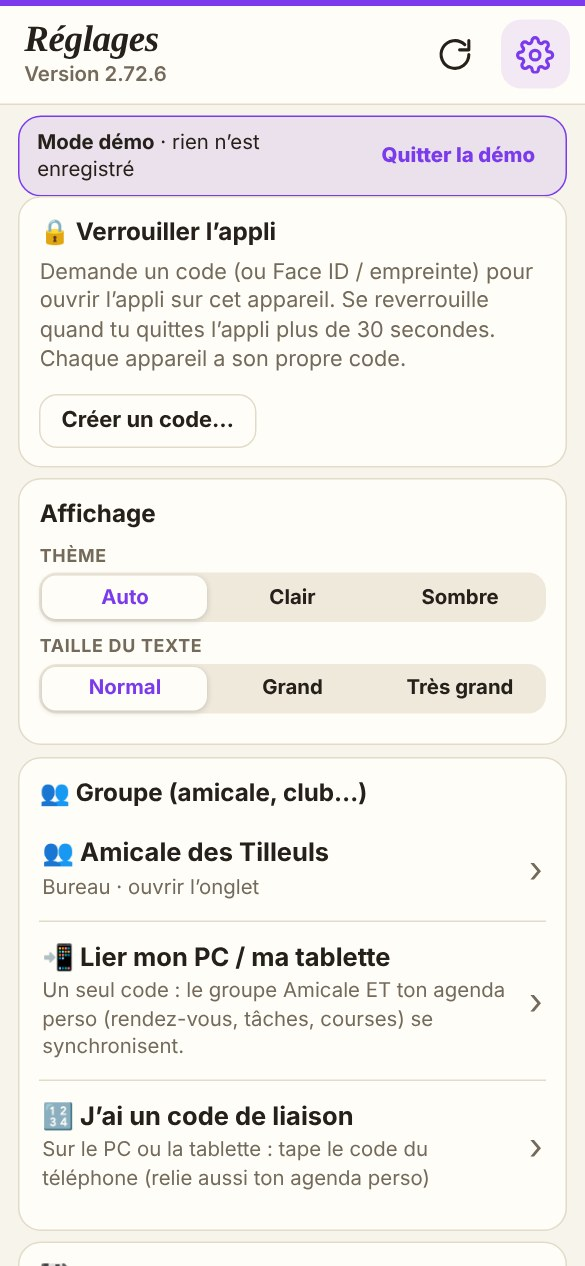
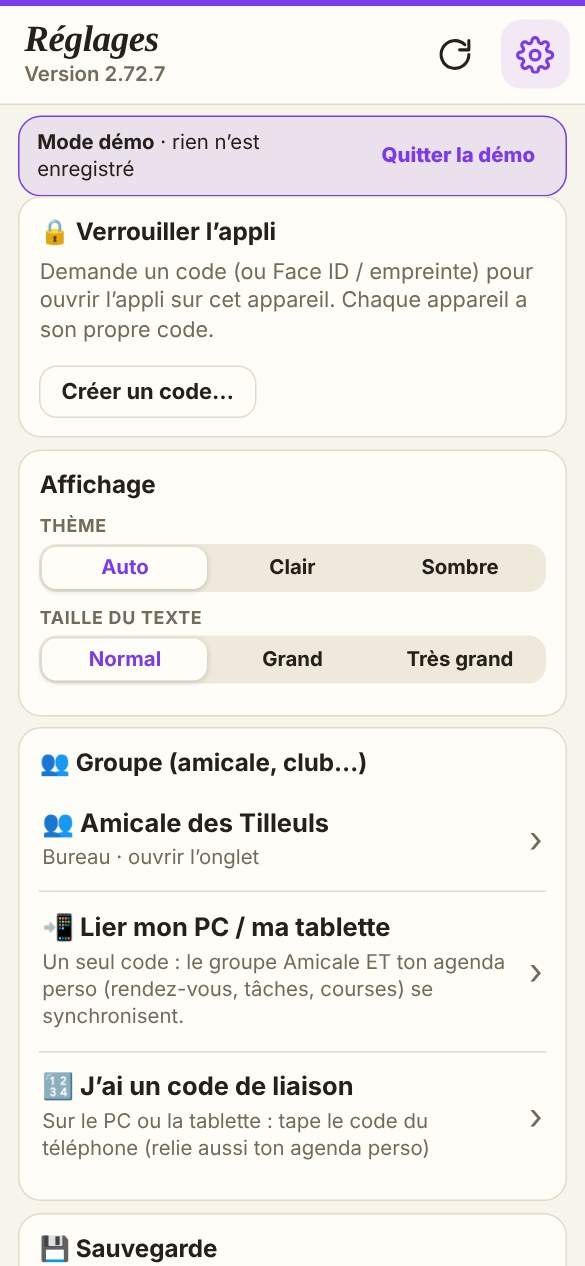
v2.72.7 : délai du verrou au choix, verrou de l'onglet Amicale seul, onglets de droite sans défilement bloqué, aide enregistrement Fichiers
Claude-Session: https://claude.ai/code/session_019mqjrjxHAMpMjD6Up7Rrk6

diff --git a/index.html b/index.html
@@ -319,6 +319,7 @@ body[data-ls="ardoise"] #main .co-tab.on,.lsth[data-ls="ardoise"] .co-tab.on{bac
  body.am-printing #amprint .pst{margin:0 auto;transform-origin:top left}
 }
 
+.co-tabs.am-sn.am-snl{position:relative;top:auto;overflow:visible;max-height:none;min-height:0}
 .co-tabs.am-sn{position:sticky;overflow-y:auto;overscroll-behavior:auto;scrollbar-width:none;-webkit-overflow-scrolling:touch;gap:.1rem;max-height:calc(100vh - 11.5rem);max-height:calc(100dvh - 11.5rem);min-height:14rem}.co-tabs.am-sn .co-tab{min-height:0;max-height:none;overflow:visible;padding:.2rem .1rem;font-size:.7rem;text-overflow:clip;flex:none}.co-tabs.am-sn .co-tn{overflow:visible;text-overflow:clip;white-space:nowrap}.co-tabs.am-sn .co-tc{font-size:.58rem;padding:0 .2rem;min-width:.9rem;line-height:1.3}
 .co-tab{max-height:14rem}
 .am-h{margin:.9rem 0 .3rem;font-size:.75rem;letter-spacing:.1em;text-transform:uppercase;color:var(--muted)}
@@ -1415,7 +1416,7 @@ html.ami #main{padding-bottom:env(safe-area-inset-bottom)}
 (function(){
 'use strict';
 /* ========= Agenda · données, dates, récurrences, .ics, sauvegarde ========= */
-const APP_VERSION='2.72.6';
+const APP_VERSION='2.72.7';
 /* Appli « Amicale » : même code, publiée aussi sur dam-cigogne.github.io/amicale/ (seul l'onglet du groupe). Mémoire séparée : préfixe agd-am- */
 const AMI=/\/amicale(\/|$)/.test(location.pathname)||/[?&]amicale=1/.test(location.search);
 const P=AMI?'agd-am-':'agd-';
@@ -1423,9 +1424,15 @@ const K={data:P+'data',set:P+'settings',meta:P+'meta',fired:P+'fired',ms:P+'ms'}
 const BACKUP_FILE=AMI?'amicale-sauvegarde.json':'agenda-sauvegarde.json';
 const ICS_FILE='agenda.ics';
 const CHANGELOG=[
+ {v:'2.72.7',d:'08/11/2026',items:[
+  '<b>Enregistrer un fichier sur iPhone</b> : un message t’indique quoi toucher (« Enregistrer dans Fichiers ») dans la fenêtre de partage. iOS ne permet pas à une appli d’écrire directement dans Fichiers.',
+  '<b>Délai du verrou au choix</b> : l’appli se reverrouille tout de suite, après 30 secondes, 1, 5, 15 minutes ou 1 heure hors de l’appli (5 minutes par défaut).',
+  '<b>Onglets de droite qui se bloquaient</b> : quand il y a plus d’onglets que la hauteur de l’écran, la colonne ne défile plus toute seule (c’est là que ça bloquait) : elle suit le défilement de la page.',
+  '<b>Verrou au choix dans AgenDam</b> : verrouiller toute l’appli ou seulement l’onglet Amicale.',
+ ]},
  {v:'2.72.6',d:'08/11/2026',items:[
   '<b>2e administrateur</b> : fiche d’un membre du bureau › « 👑 Nommer administrateur ». Elle ou il peut alors gérer le groupe sans toi (titres, niveaux d’accès, retraits, invitations, modèle de bulletin). Ça ne peut pas se défaire.',
-  '<b>Verrou de l’appli</b> : code (et Face ID / empreinte) demandé à l’ouverture de toute l’appli, sur l’appareil de ton choix (Réglages › Verrouiller l’appli). Se reverrouille quand tu quittes l’appli plus de 30 secondes.',
+  '<b>Verrou de l’appli</b> : code (et Face ID / empreinte) demandé à l’ouverture de toute l’appli, sur l’appareil de ton choix (Réglages › Verrouiller l’appli). Dans AgenDam, tu peux ne verrouiller que l’onglet Amicale. Se reverrouille quand tu quittes l’appli plus de 30 secondes.',
   '<b>Titres au féminin</b> : Présidente, Vice-présidente et Trésorière sont proposées en plus (Secrétaire est identique).',
   '<b>Notifications des courses</b> : elles indiquent le nom de la liste (« a modifié la liste « Buvette » »). Demande la dernière version du serveur (worker).'
  ]},
@@ -2999,6 +3006,7 @@ function bannerHTML(){
 
 /* ---------- Rendu principal ---------- */
 function render(){
+ setTimeout(amSnFit,80);
  FEV_C=null;
  OCC.length=0;VAC_IDX=null;
  const main=$('#main'),body=$('#body');
@@ -7180,6 +7188,8 @@ async function act(a,el,e){
   case 'aml-open':await amlGate();break;
   case 'aml-pin':await amlSetPin();render();break;
   case 'aml-lock':amlRelock();break;
+  case 'aml-delay':S.amlDelay=+ds_.v;saveSet();render();break;
+  case 'aml-scope':{S.amlScope=ds_.v==='am'?'am':'all';saveSet();amlCover(0);AML_OK=true;render();toast(S.amlScope==='am'?'Seul l’onglet Amicale sera verrouillé':'Toute l’appli sera verrouillée',3500);break}
   case 'aml-bio':{
    if(S.amlBio){S.amlBio='';saveSet();toast('Face ID / empreinte retiré : le code reste actif')}
    else if(!(await bdBioAvail())){await ask({title:'Pas disponible ici',text:'Cet appareil ou ce navigateur ne propose pas Face ID / empreinte pour les sites. Le code reste utilisable.',btns:[{label:'OK',value:1,cls:'pri'}]})}
@@ -10607,14 +10617,21 @@ async function amForm(title,intro,fields,ok){
 }
 let AM_QUIET=0;
 /* Verrou de toute l'appli (sur cet appareil seulement) : code + Face ID / empreinte, comme les anniversaires */
+/* Colonne d'onglets de droite : si elle est plus haute que l'écran, elle n'a plus de défilement à elle (ça se bloquait sur iPhone/iPad) : elle suit simplement le défilement de la page */
+function amSnFit(){const n=document.querySelector('.co-tabs.am-sn');if(!n)return;n.classList.remove('am-snl');if(n.scrollHeight>n.clientHeight+3)n.classList.add('am-snl')}
+window.addEventListener('resize',()=>setTimeout(amSnFit,200));window.addEventListener('orientationchange',()=>setTimeout(amSnFit,400));
 let AML_OK=false,AML_H=0;
+const amlDelay=()=>S.amlDelay==null?300:+S.amlDelay;
+const amlScopeAm=()=>!AMI&&S.amlScope==='am'&&!!(S.amc&&S.amc.on);
+const amTabLocked=()=>!!S.amlPin&&amlScopeAm()&&!AML_OK;
+function amLockHTML(){return '<div class="card" style="margin:.8rem 0;text-align:center;padding:1.4rem"><div style="font-size:2.4rem">🔒</div><b>Amicale verrouillée</b><p class="mut" style="margin:.3rem 0 .8rem">Entre ton code ou Face ID / empreinte pour voir l’Amicale.</p><button class="btn pri" data-act="aml-open">🔓 Déverrouiller</button></div>'}
 function amlCover(on){let e=document.getElementById('applock');if(!on){if(e)e.remove();return}
  if(e)return;e=document.createElement('div');e.id='applock';e.style.cssText='position:fixed;inset:0;z-index:70;background:var(--bg,#fff);color:var(--text,#111);display:flex;flex-direction:column;align-items:center;justify-content:center;gap:.8rem;text-align:center;padding:2rem';
  e.innerHTML='<div style="font-size:3rem">🔒</div><b style="font-size:1.3rem">Appli verrouillée</b><p class="mut" style="margin:0 0 .4rem;max-width:20rem">Touche le bouton pour entrer avec ton code ou Face ID / empreinte.</p><button class="btn pri" id="applock-b" style="min-width:12rem">🔓 Déverrouiller</button>';
  document.body.appendChild(e);document.getElementById('applock-b').onclick=()=>{amlGate().then(ok=>{if(ok)amlCover(0)})}}
-function amlRelock(){AML_OK=false;if(S.amlPin)amlCover(1)}
-function amlUnlock(){AML_OK=true;amlCover(0)}
-document.addEventListener('visibilitychange',()=>{if(!S.amlPin)return;if(document.hidden){AML_H=Date.now()}else if(AML_H&&Date.now()-AML_H>30000){amlRelock();amlGate().then(ok=>{if(ok)amlCover(0)})}});
+function amlRelock(){AML_OK=false;if(!S.amlPin)return;if(amlScopeAm()){if(V.view==='amicale')render()}else amlCover(1)}
+function amlUnlock(){AML_OK=true;amlCover(0);if(V.view==='amicale')render()}
+document.addEventListener('visibilitychange',()=>{if(!S.amlPin)return;if(document.hidden){AML_H=Date.now()}else if(AML_H&&Date.now()-AML_H>amlDelay()*1000){amlRelock();if(!amlScopeAm())amlGate().then(ok=>{if(ok)amlCover(0)})}});
 async function amlGate(){
  if(!S.amlPin||AML_OK)return true;let msg='';
  if(S.amlBio&&await bdBioCheck('amlBio')){amlUnlock();render();return true}
@@ -10642,7 +10659,7 @@ async function amlSetPin(){
  const salt=uid();S.amlPin=salt+':'+await bdHash(a,salt);amlRelock();saveSet();render();toast('🔒 Verrou enregistré')
 }
 function appLockCard(){
- return '<div class="card"><h3>🔒 Verrouiller l’appli</h3><p class="mut" style="font-size:.85rem;margin:.2rem 0 .5rem">Demande un code (ou Face ID / empreinte) pour ouvrir l’appli sur cet appareil. Se reverrouille quand tu quittes l’appli plus de 30 secondes. Chaque appareil a son propre code.</p><button class="btn blk" data-act="aml-pin">'+(S.amlPin?'Verrou activé : changer ou retirer':'Créer un code…')+'</button>'+(S.amlPin?'<button class="btn blk" data-act="aml-bio">'+(S.amlBio?'✅ Face ID / empreinte activé : retirer':'👤 Déverrouiller avec Face ID / empreinte…')+'</button><button class="btn blk" data-act="aml-lock">Verrouiller maintenant</button>':'')+'</div>'
+ return '<div class="card"><h3>🔒 Verrouiller l’appli</h3><p class="mut" style="font-size:.85rem;margin:.2rem 0 .5rem">Demande un code (ou Face ID / empreinte) pour ouvrir l’appli sur cet appareil. Chaque appareil a son propre code.</p><button class="btn blk" data-act="aml-pin">'+(S.amlPin?'Verrou activé : changer ou retirer':'Créer un code…')+'</button>'+(S.amlPin?'<b style="display:block;margin:.6rem 0 .2rem">Se reverrouille après…</b><div class="seg" style="flex-wrap:wrap">'+[[0,'Tout de suite'],[30,'30 s'],[60,'1 min'],[300,'5 min'],[900,'15 min'],[3600,'1 h']].map(o=>'<button data-act="aml-delay" data-v="'+o[0]+'" class="'+(amlDelay()===o[0]?'on':'')+'">'+o[1]+'</button>').join('')+'</div><p class="mut" style="font-size:.8rem;margin:.2rem 0 0">Temps passé hors de l’appli avant qu’elle redemande le code.</p>':'')+(S.amlPin&&!AMI&&S.amc&&S.amc.on?'<b style="display:block;margin:.6rem 0 .2rem">Que verrouiller ?</b><div class="seg"><button data-act="aml-scope" data-v="all" class="'+(S.amlScope!=='am'?'on':'')+'">Toute l’appli</button><button data-act="aml-scope" data-v="am" class="'+(S.amlScope==='am'?'on':'')+'">Seulement l’onglet Amicale</button></div>':'')+(S.amlPin?'<button class="btn blk" data-act="aml-bio">'+(S.amlBio?'✅ Face ID / empreinte activé : retirer':'👤 Déverrouiller avec Face ID / empreinte…')+'</button><button class="btn blk" data-act="aml-lock">Verrouiller maintenant</button>':'')+'</div>'
 }
 async function amPut(zone,doc,P,kraw,hint,det){
  const a=amc(),FK=await famKeys({k:kraw||(zone==='b'?a.kB:a.kA)}),b=await famEncK(P,FK.key);b.by=String(a.me.n||'').slice(0,30);
@@ -11650,7 +11667,7 @@ async function amSaveBlob(blob,name,mime){
   try{const ext=(name.match(/\.[a-z0-9]+$/i)||['.bin'])[0],h=await window.showSaveFilePicker({suggestedName:name,types:[{description:'Fichier '+ext,accept:{[f.type||'application/octet-stream']:[ext]}}]});const w=await h.createWritable();await w.write(f);await w.close();toast('Enregistré : '+h.name,3500);return}
   catch(e){if(e&&e.name==='AbortError')return}
  }
- if(navigator.canShare&&navigator.canShare({files:[f]})){try{await navigator.share({files:[f],title:name});return}catch(e){if(e&&e.name==='AbortError')return}}
+ if(navigator.canShare&&navigator.canShare({files:[f]})){if(isIOS())toast('Dans la fenêtre qui s’ouvre : touche « Enregistrer dans Fichiers » (descends dans la liste si besoin)',6000);try{await navigator.share({files:[f],title:name});return}catch(e){if(e&&e.name==='AbortError')return}}
  const u=URL.createObjectURL(f),l=document.createElement('a');l.href=u;l.download=name;document.body.appendChild(l);l.click();setTimeout(()=>{l.remove();URL.revokeObjectURL(u)},4000);toast('Fichier téléchargé : « '+name+' » (dossier Téléchargements)',4500);
 }
 async function amFileOut(name,text){await amSaveBlob(new Blob([''+text],{type:'text/csv'}),name,'text/csv')}
@@ -13165,7 +13182,8 @@ function amPendN(){const a=amc();return a?Object.values(a.it||{}).filter(x=>x.di
 function amKeyBanner(){const a=amc();if(!a||!a.apriv)return'';const n=amPendN();if(n<1){if(!a.kdone)return'';return'<div class="warn" id="am-pend" style="border-color:#16a34a;background:color-mix(in srgb,#16a34a 14%,var(--surface))"><b>✅ Clés à jour : le groupe est prêt</b>Tout a été envoyé, tu peux inviter ou continuer.<div style="margin-top:.4rem"><button class="btn sm" data-act="am-keyok">OK, fermer</button></div></div>'}a.kwait=1;return'<div class="warn" id="am-pend"><b>🔑 Mise à jour du groupe en cours</b>Il reste <b id="am-pend-n">'+n+'</b> élément'+(n>1?'s':'')+' à envoyer aux autres membres (renouvellement des clés, import…). <b>Garde l’appli ouverte</b> et n’invite personne avant le message « ✅ Clés à jour ».</div>'}
 function amKeyOk(){const a=amc();if(a){a.kdone=0;amSave()}const b=document.getElementById('am-pend');if(b)b.remove()}
 function amPendTick(){const a=amc();if(!a)return;const n=amPendN(),e=document.getElementById('am-pend-n');if(n<1){if(a.kwait){a.kwait=0;a.kdone=Date.now();amSave();try{toast('✅ Clés à jour : le groupe est prêt',5000)}catch(e){}try{const v=document.getElementById('am-pend');if(v)v.outerHTML=amKeyBanner()}catch(e){}}}else{a.kwait=1;if(e)e.textContent=n}}
-function amView(){
+function amView(){if(amTabLocked())return{html:amLockHTML(),fixed:false};return amView0()}
+function amView0(){
  const a=amc();
  if(!a)return{html:'<div class="rp-wrap">'+(AMI?'<div class="card" style="margin:.8rem 0"><h3>👋 Bienvenue dans Amicale</h3><p style="margin:.2rem 0">L’appli de ton groupe (amicale, club, association) : membres, agenda, tâches, courses, événements. Tout est chiffré, sans compte ni publicité.</p><p class="mut" style="margin:.4rem 0 0;font-size:.9rem">Tu as reçu un <b>code d’invitation</b> ? Touche « Rejoindre avec un code ».</p><p class="mut" style="margin:.4rem 0 0;font-size:.9rem">Tu as déjà ce groupe dans <b>AgenDam</b> ? Dans AgenDam : Groupe › Réglages › <b>📲 Lier un autre appareil</b>, puis entre ici le code de 12 caractères : tu restes la même personne, avec les mêmes droits, et tout est identique dans les deux applis.</p></div>'+(amiFromAg()?'<button class="btn pri blk" data-act="ami-take">📲 Reprendre « '+esc(amiFromAg().nm||'Groupe')+' » d’AgenDam (cet appareil)</button>':''):'<p class="empty">Pas de groupe sur ce téléphone.</p>')+'<button class="btn pri blk" data-act="am-new">👥 Créer un groupe</button><button class="btn blk" data-act="am-join">🔢 Rejoindre avec un code</button></div>',fixed:false};
  if(a.newAdm){a.newAdm=0;amSave();setTimeout(()=>toast('👑 Tu es maintenant administrateur du groupe',5000),400)}
@@ -13289,7 +13307,7 @@ async function init(){
 }
 init();
 window.__agd={get EV(){return EV},get S(){return S},V,version:APP_VERSION,fn:{rcPhSet,rcPhGet,jrCheck,jrWrap,saveData,famPull,famPush,enterDemo,exitDemo,go,render,tabsApply,amc,amCreate,amInvite,amJoinCode,amList,amPull,amFlush,amPush,amLinkOut,amRolesPut,amFiche,amVerify,amPoShare,amPoGet}};
-try{if(S&&S.amlPin&&!demo){amlCover(1);setTimeout(()=>amlGate().then(ok=>{if(ok)amlCover(0)}),700)}}catch(e){}
+try{if(S&&S.amlPin&&!demo&&!amlScopeAm()){amlCover(1);setTimeout(()=>amlGate().then(ok=>{if(ok)amlCover(0)}),700)}}catch(e){}
 })();
 
 

diff --git a/visite.html b/visite.html
@@ -301,16 +301,16 @@ C.splice(k>=0?k+1:3,0,{em:'🔔',t:'Les notifications',p:'Pour être prévenu qu
  ['n7-notif-test','test','Vérifier que ça marche','Touche <b>Envoyer un test</b> : une notification « ✅ Test réussi » arrive. Ensuite, le titre dit d’où vient le changement : <b>🛒 Amicale · Courses</b>, <b>☑ Amicale · Tâches</b>, <b>🏠 Famille · Agenda</b>…<br><small>Jamais pour tes propres changements, au plus une toutes les 2 minutes. Pour arrêter : remets l’interrupteur sur non.</small>']
 ]})}
 /* 🔒 chapitre verrou de l'appli (08/11) */
-FIX['n9-verrou-activer']={mk:[25,33.2,40,5]};FIX['n9-verrou-options']={bio:[44,38,76,5]};FIX['n9-verrou-ecran']={ouv:[50,61.3,54,6.5]};
+FIX['n9-verrou-activer']={mk:[25,30.9,40,5]};FIX['n9-verrou-options']={bio:[44,53,76,5]};FIX['n9-verrou-ecran']={ouv:[50,61.3,54,6.5]};
 {const k=C.findIndex(c=>!Array.isArray(c)&&c.t==='Les notifications');
 C.splice(k>=0?k+1:4,0,{em:'🔒',t:'Verrouiller l’appli',p:'Une <b>sécurité en plus</b> : même si quelqu’un prend ton téléphone ouvert, il ne voit rien sans ton code ou ton visage.',s:[
- ['n9-verrou-activer','mk','Où l’activer','Touche ⚙ <b>Réglages</b>, puis <b>Verrouiller l’appli</b> › « Créer un code… » : choisis 4 à 8 chiffres.<br><small>C’est facultatif, et chaque téléphone a son propre code.</small>'],
- ['n9-verrou-options','bio','Face ID ou empreinte','Touche « <b>Déverrouiller avec Face ID / empreinte</b> » : ensuite l’appli s’ouvre d’un regard ou d’un doigt. Le <b>code reste le secours</b>.<br><small>Pour changer ou retirer le verrou : même endroit.</small>'],
- ['n9-verrou-ecran','ouv','À l’ouverture','Quand tu rouvres l’appli après plus de 30 secondes, elle est <b>verrouillée</b> : touche « Déverrouiller ». C’est <b>une sécurité en plus</b> du code de ton téléphone, pas à sa place.<br><small>Code oublié : il faut réinstaller l’appli et rejoindre le groupe avec un nouveau code d’invitation.</small>']
+ ['n9-verrou-activer','mk','Où l’activer','Touche ⚙ <b>Réglages</b>, puis <b>Verrouiller l’appli</b> › « Créer un code… » : choisis 4 à 8 chiffres.<br><small>C’est facultatif, et chaque téléphone a son propre code. Dans AgenDam, tu peux ne verrouiller que l’onglet Amicale.</small>'],
+ ['n9-verrou-options','bio','Face ID ou empreinte','Touche « <b>Déverrouiller avec Face ID / empreinte</b> » : ensuite l’appli s’ouvre d’un regard ou d’un doigt. Le <b>code reste le secours</b>.<br>Juste au-dessus, choisis <b>après combien de temps</b> l’appli se reverrouille : tout de suite, 30 s, 1, 5, 15 min ou 1 h.<br><small>Pour changer ou retirer le verrou : même endroit.</small>'],
+ ['n9-verrou-ecran','ouv','À l’ouverture','Quand tu rouvres l’appli après le délai choisi (5 minutes par défaut), elle est <b>verrouillée</b> : touche « Déverrouiller ». C’est <b>une sécurité en plus</b> du code de ton téléphone, pas à sa place.<br><small>Code oublié : il faut réinstaller l’appli et rejoindre le groupe avec un nouveau code d’invitation.</small>']
 ]})}
 const Q=[];C.forEach((c,ci)=>{Q.push({card:c,ci});(c.s||[]).forEach(s=>Q.push({ci,img:s[0],mk:s[1],t:s[2],p:s[3]}))});Q.push({card:FIN,fin:1,ci:C.length});
 let i=0;const $=s=>document.querySelector(s);
-Q.forEach(q=>{if(q.img){const im=new Image();im.src='guide/'+q.img+'.jpg?v=20261108b'}});
+Q.forEach(q=>{if(q.img){const im=new Image();im.src='guide/'+q.img+'.jpg?v=20261108c'}});
 function box(q){if(q.mk==='*')return[50,30,100,40];const f=(FIX[q.img]||{})[q.mk];return f||((MK[q.img]||{})[q.mk])||[50,50,80,10]}
 function show(){
  document.querySelectorAll('.card').forEach(e=>e.remove());const MD=vMode(),autoLand=innerWidth>innerHeight*1.15&&innerWidth>=700,landOn=MD==='paysage'||(MD==='auto'&&(autoLand||(innerWidth>innerHeight&&innerHeight<620))),crop=landOn&&innerHeight<620;document.body.classList.toggle('crop',crop);document.body.classList.toggle('land',landOn);$('#md').textContent=MD==='portrait'?'📱':MD==='paysage'?'🖥':'⇄';$('#bub').style.display=Q[i].card?'none':'';
@@ -319,7 +319,7 @@ function show(){
  if(q.card){const d=document.createElement('div');d.className='card';
   d.innerHTML='<div class="em">'+q.card.em+'</div><h1>'+q.card.t+'</h1><p>'+q.card.p+'</p>'+(q.fin?'<div class="lnk"><a href="./">📱 Ouvrir l’appli</a><a href="./?demo=1">🧪 Essayer la démo</a><a href="guide.html">📖 Le guide à lire</a></div><button class="go" data-r="1">↺ Revoir la visite</button>':'<button class="go">'+(i===0?'C’est parti ! ▶':'Voir ▶')+'</button>'+(i===0?'<div class="sm">Astuce : touche à droite pour avancer, à gauche pour revenir. Flèches du clavier sur ordinateur.</div>':''));
   document.body.appendChild(d);if(q.fin)confetti();return}
- const img=$('#img'),src='guide/'+q.img+'.jpg?v=20261108b';if(!img.src.endsWith(src)){img.style.opacity=0;img.onload=()=>img.style.opacity=1;img.src=src}
+ const img=$('#img'),src='guide/'+q.img+'.jpg?v=20261108c';if(!img.src.endsWith(src)){img.style.opacity=0;img.onload=()=>img.style.opacity=1;img.src=src}
  const paper=q.img[0]==='p';document.body.classList.toggle('paperon',paper);$('#zw').classList.toggle('paper',paper);
  const [x,y,w,h]=box(q),H=$('#hole'),pad=1.2;H.style.display=paper?'none':'';
  H.style.left=(x-w/2-pad)+'%';H.style.top=(y-h/2-pad*0.5)+'%';H.style.width=(w+2*pad)+'%';H.style.height=(h+pad)+'%';

diff --git a/sw.js b/sw.js
@@ -2,7 +2,7 @@
    Le nom du cache porte la version : à chaque nouvelle version, changer VERSION
    ici ET APP_VERSION dans index.html. Préfixe « agd- » : on ne touche jamais
    aux caches des autres applis du même domaine (mc-, glf-…). */
-const VERSION = '2.72.6';
+const VERSION = '2.72.7';
 const CACHE = 'agd-cache-v' + VERSION;
 const ASSETS = [
   './',
